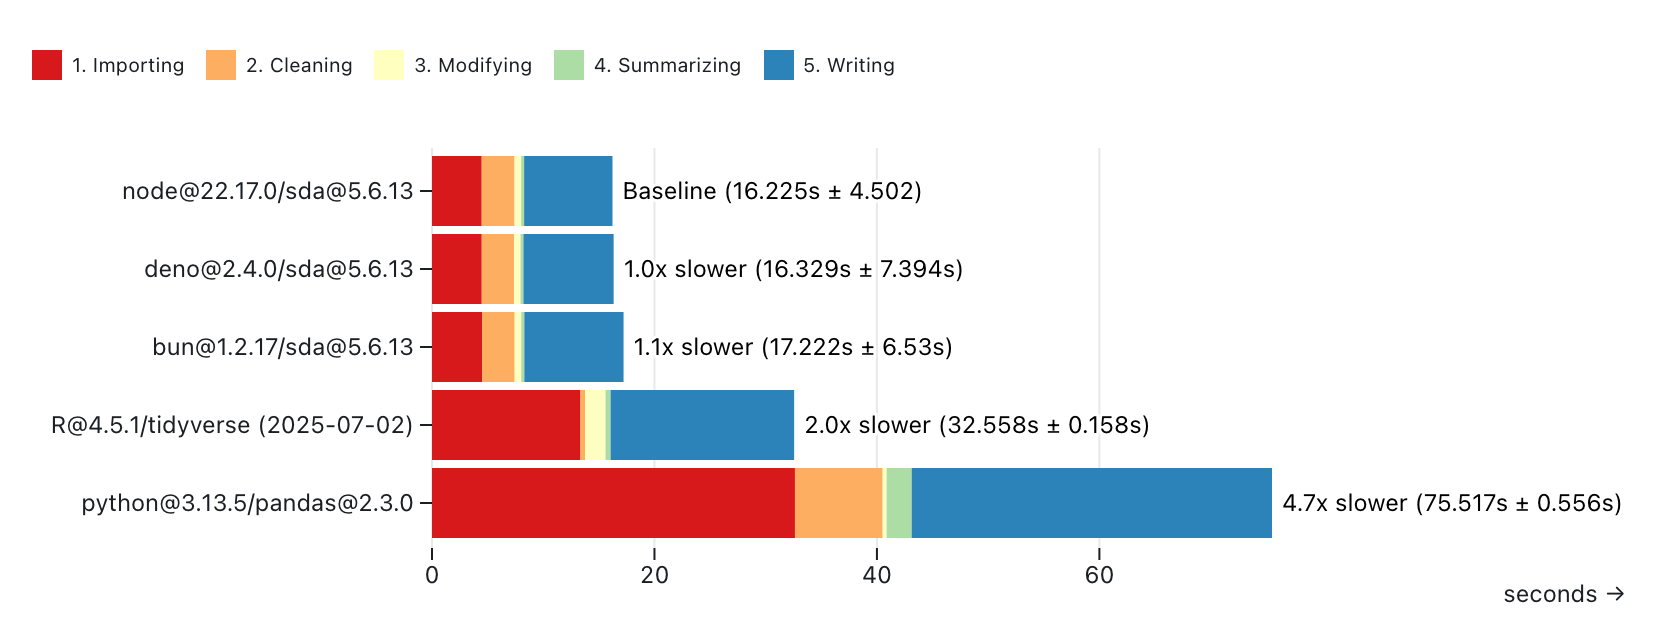
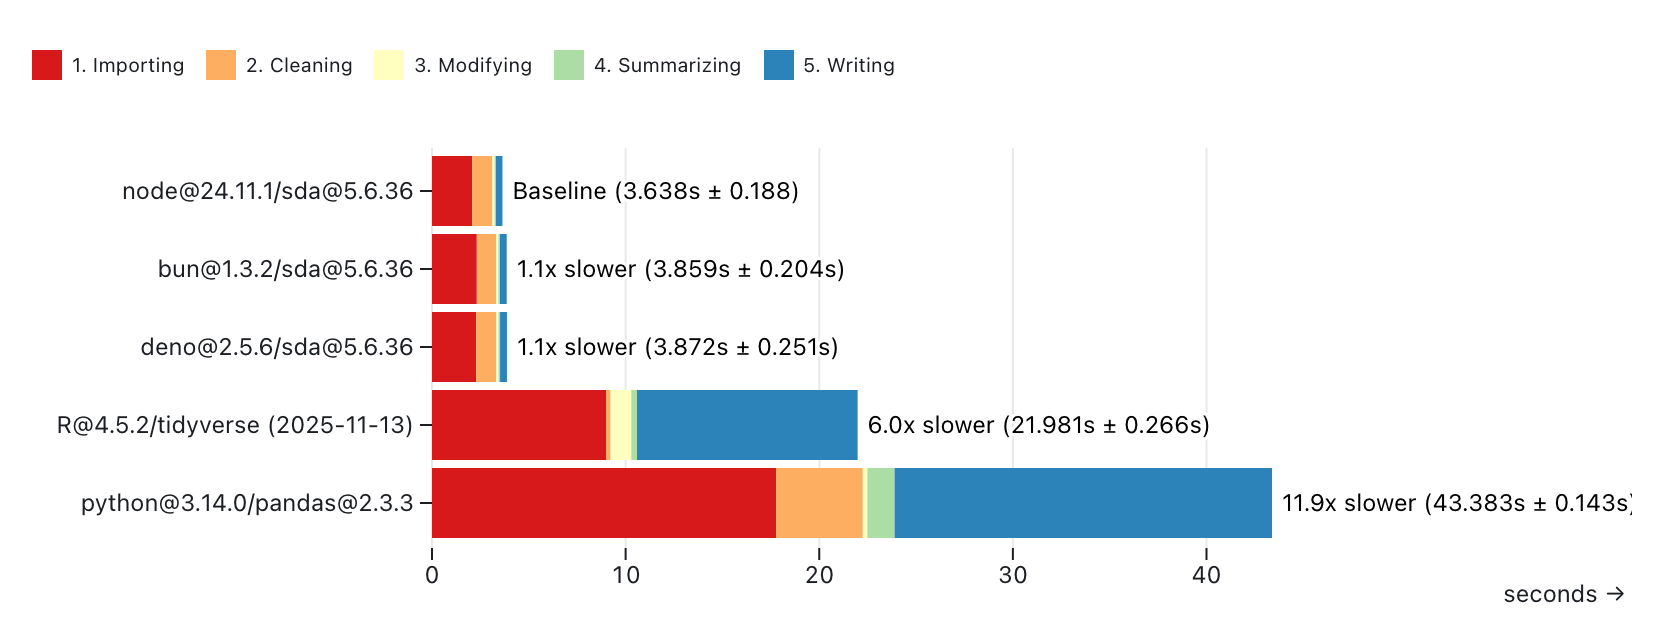
Updating

diff --git a/benchmark-bun-sda.js b/benchmark-bun-sda.js
@@ -5,7 +5,7 @@ console.log("benchmark-bun-sda");
 await benchmark(
   "ahccd-sample.csv",
   10,
-  "bun@1.2.22",
+  "bun@1.3.2",
   "simple-data-analysis@5.6.36",
 );
 

diff --git a/README.md b/README.md
@@ -6,10 +6,8 @@ we calculated the average temperature per decade and city with the daily
 temperatures from the
 [Adjusted and Homogenized Canadian Climate Data](https://api.weather.gc.ca/collections/ahccd-annual).
 
-We ran the same calculations with **simple-data-analysis@1.8.1** (both NodeJS
-and Bun), **simple-data-analysis@2.0.1** (NodeJS),
-**simple-data-analysis@2.7.3** (NodeJS), **Pandas (Python)**, and the
-**tidyverse (R)**.
+We ran the same calculations with **simple-data-analysis** (Deno, NodeJS and
+Bun), **Pandas (Python)**, and the **tidyverse (R)**.
 
 In each script, we:
 
@@ -21,7 +19,7 @@ In each script, we:
 5. Write the cleaned-up data that we computed the averages from in a new CSV
    file (_Writing_)
 
-Each script has been run ten times on a MacBook Pro (Apple M1 Pro / 16 GB). The
+Each script has been run ten times on a MacBook Pro (Apple M4 Max / 64 GB). The
 durations have been averaged and we calculated the standard deviation.
 
 The charts displayed below come from this
@@ -37,8 +35,8 @@ With _ahccd-samples.csv_:
 - 971,804 rows
 - 19,436,080 data points
 
-**simple-data-analysis@1.8.1** was the slowest, but
-**simple-data-analysis@2.x.x** versions are now the fastest.
+**simple-data-analysis** is the fastest, but if we skip writing the CSV file,
+the **tidyverse** shows impressive speed with small files.
 
 ![A chart showing the processing duration of multiple scripts in various languages](./assets/small-file.png)
 
@@ -52,10 +50,7 @@ With _ahccd.csv_:
 - 22,051,025 rows
 - 441,020,500 data points
 
-The file was too big for **simple-data-analysis@1.8.1**, so it's not included
-here.
-
-While **simple-data-analysis@2.0.1** was already fast,
-**simple-data-analysis@2.7.3** shines even more with big files.
+Thanks to DuckDB, **simple-data-analysis** really shines with big files. It's
+the fastest option.
 
 ![A chart showing the processing duration of multiple scripts in various languages](./assets/big-file.png)
